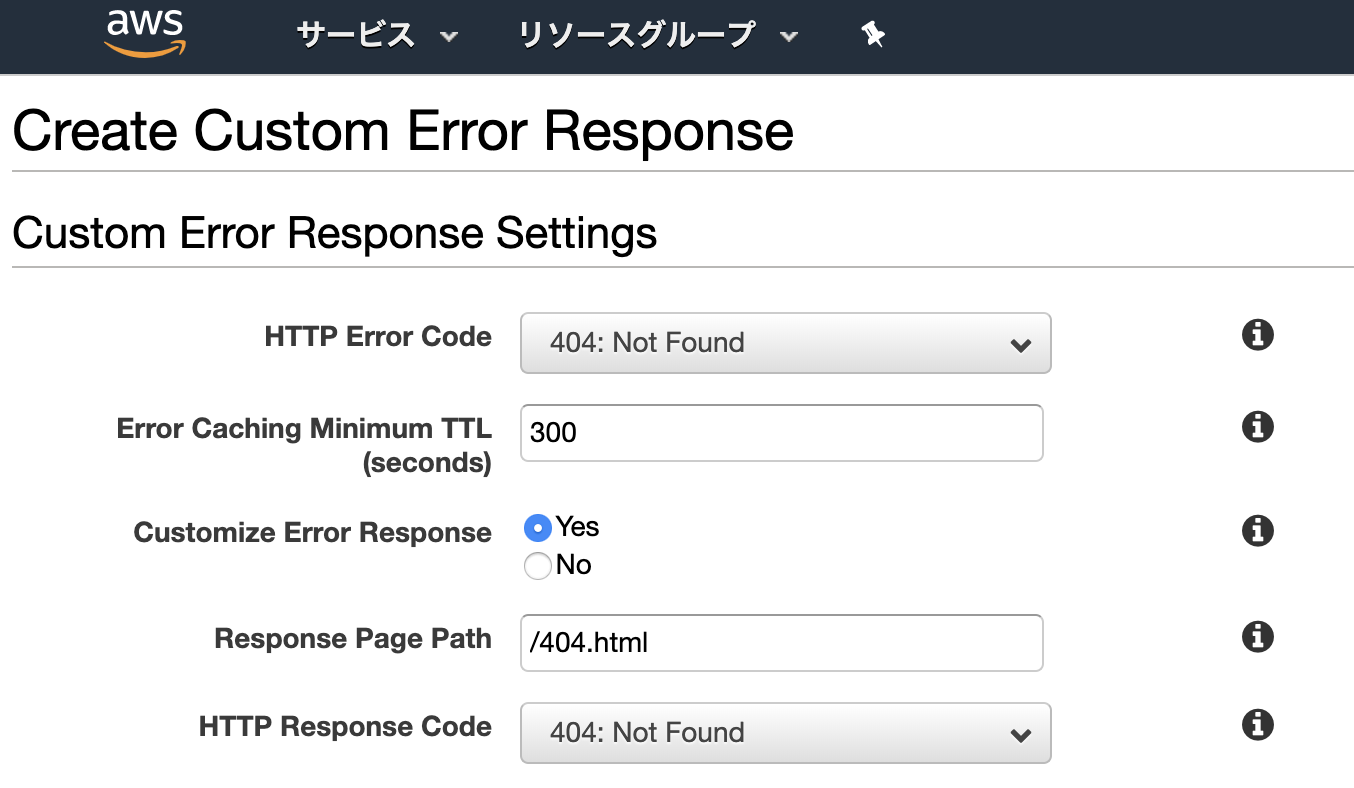
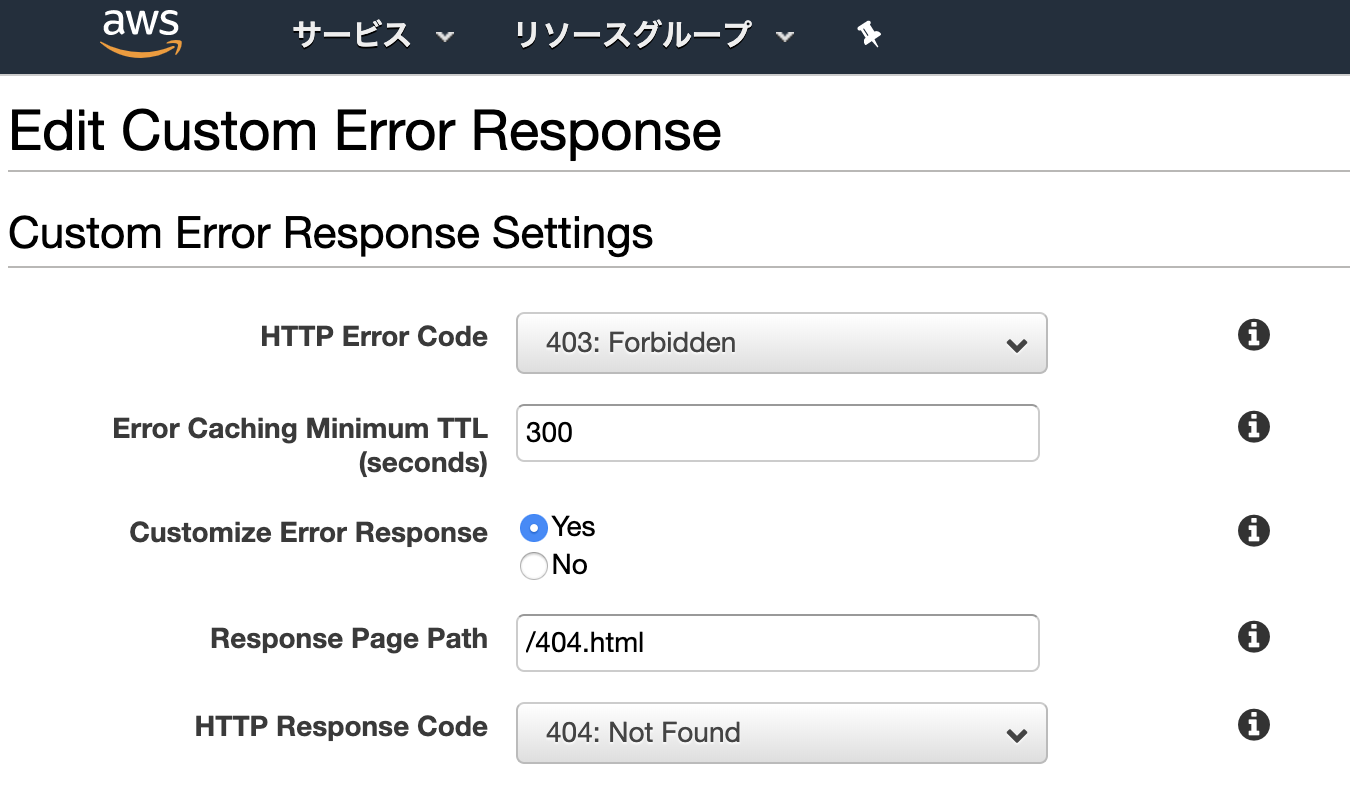
update blog about how to deploy my blog on AWS

diff --git a/aws/lambdaAtEdge-dicrectory-level-requests.js b/aws/lambdaAtEdge-dicrectory-level-requests.js
@@ -1,0 +1,20 @@
+'use strict'
+exports.handler = (event, context, callback) => {
+
+  // Extract the request from the CloudFront event that is sent to Lambda@Edge
+  const request = event.Records[0].cf.request;
+
+  // Extract the URI from the request
+  const oriUri = request.uri;
+
+  // Match any '/' that occurs at the end of a URI.
+  if (oriUri.endsWith('/')) {
+    // Replace it with a default index.html
+    request.uri += 'index.html';
+  } else if (!oriUri.includes('.')) {
+    request.uri += 'index.html';
+  }
+
+  // Return to CloudFront
+  callback(null, request);
+}

diff --git a/src/pages/2019/0508-gatsby-aws-s3/index.md b/src/pages/2019/0508-gatsby-aws-s3/index.md
@@ -167,7 +167,90 @@ yarn build && yarn deploy
 
 ![CloudFront-Management-Console-9](CloudFront-Management-Console-9.png)
 
-けっこう、時間がかかる。
+CloudFront から S3 の Bucket へは、IAM ロールを使ってアクセスします。しかし、この場合、サーバサイドでの 301/302 リダイレクトができないため、index.html 以外へのアクセスができないです。
+
+あとで、Lambda@Edge を使って、他のルーティングもできるように修正します。
+
+デプロイに、けっこう時間がかかる。
 
 AWS S3 を CloudFront 対応にする  
 <https://www.aws-book.com/getting-started/cloudfront/s3.html>
+
+残念ながら、今の設定だと、サーバ側の 301/302 のリダイレクトができなくなるので、ルートディレクトリとして設定した`index.html`以外の URL に直接アクセスすることができなくなってしまいます(この問題は、Gatsby の公式ページでも指摘されています)。
+
+Deploying to S3/Cloudfront  
+<https://www.gatsbyjs.org/docs/deploying-to-s3-cloudfront/>
+
+CloudFront redirecting to origin?  
+<https://acloud.guru/forums/aws-certified-developer-associate/discussion/-KcC5f1fw3l4-tclsXje/cloudfront_redirecting_to_orig>
+
+CloudFront ディストリビューションのオリジンとして S3 ウェブサイトのエンドポイントを使用しています。HTTP レスポンスコード 403 (Access Denied) が発生するのはなぜですか？  
+<https://aws.amazon.com/jp/premiumsupport/knowledge-center/s3-website-cloudfront-error-403/>
+
+Running GatsbyJS using Amazon S3 and CloudFront  
+<https://www.bayphillips.com/blog/gatsbyjs-using-amazon-s3-and-cloudfront/>
+
+## Lambda@Edge
+
+Gatsby の仕様として、`http://imamachi-n.com:8000/2019/0508-gatsby-aws-s3/`のようなサブディレクトリにアクセスした場合、サーバサイドでのリダイレクト（301/302）が発生し、`http://imamachi-n.com:8000/2019/0508-gatsby-aws-s3/index.html`にアクセスします。
+
+今回のように、S3 にオリジンを配置し、CloudFront にデータをキャッシュさせた場合、サーバサイドのリダイレクトができません。
+CloudFront の`Default Root Object`で`index.html`に設定することができますが、以下に示すとおりトップページにしか適応されません。
+
+- http://imamachi-n.com/ → index.html を返す
+- http://imamachi-n.com/subdir/ → index.html は返りません
+
+Deploying to S3/Cloudfront  
+<https://www.gatsbyjs.org/docs/deploying-to-s3-cloudfront/>
+
+![Lambda-edge-1](Lambda-edge-1.png)
+
+![Lambda-edge-2](Lambda-edge-2.png)
+
+![Lambda-edge-3](Lambda-edge-3.png)
+
+![Lambda-edge-4](Lambda-edge-4.png)
+
+![Lambda-edge-5](Lambda-edge-5.png)
+
+![Lambda-edge-6](Lambda-edge-6.png)
+
+![Lambda-edge-7](Lambda-edge-7.png)
+
+![Lambda-edge-8](Lambda-edge-8.png)
+
+![Lambda-edge-9](Lambda-edge-9.png)
+
+![Lambda-edge-10](Lambda-edge-10.png)
+
+![Lambda-edge-11](Lambda-edge-11.png)
+
+![Lambda-edge-12](Lambda-edge-12.png)
+
+![Lambda-edge-13](Lambda-edge-13.png)
+
+Lambda@Edge を設定するために、Lambda@Edge の IAM 実行ロールが必要です。  
+Lambda 関数を生成したときにできる実行ロールには、Lambda 用のサービスプリンシパルしか許可されていないので、`edgelambda.amazonaws.com`を追加します。
+
+IAM ロール設定の［信頼関係］タブを開いて、［信頼関係の編集］を開き、以下のように設定します。
+
+```json
+{
+  "Version": "2012-10-17",
+  "Statement": [
+    {
+      "Effect": "Allow",
+      "Principal": {
+        "Service": ["lambda.amazonaws.com", "edgelambda.amazonaws.com"]
+      },
+      "Action": "sts:AssumeRole"
+    }
+  ]
+}
+```
+
+デフォルトでは、CloudFront イベントが Lambda 関数をトリガーするたびに、データが CloudWatch Logs に書き込まれます。これらのログを使用する場合は、CloudWatch Logs にデータを書き込むためのアクセス権限が実行ロールに必要です。
+今回のケースだと、このログをいちいち出す必要がないので、この実行ロールを作りませんでした。
+
+Lambda@Edge 用の IAM アクセス権限とロールの設定  
+<https://docs.aws.amazon.com/ja_jp/AmazonCloudFront/latest/DeveloperGuide/lambda-edge-permissions.html>

diff --git a/src/pages/2019/0712-JJUG-study/index.md b/src/pages/2019/0712-JJUG-study/index.md
@@ -1,0 +1,54 @@
+---
+title: JJUG
+date: "2019-07-12"
+tags:
+  - Java
+  - Spring Framework
+---
+
+## Spring Initializr
+
+<https://start.spring.io/>
+
+## クラウド時代だから spring-retry フレームワーク
+
+短時間で復旧している可能性が高いなら、自動リトライ  
+そもそも通信過多なら、スロットリング
+
+aws-sdk-java  
+スロットリングとリトライの両方を内蔵している
+
+JDBC 接続のリトライ  
+REST-API の HTTP リクエストのリトライ
+
+RDS のフェイルオーバー  
+60-120 秒かかる.
+
+db.biz.internal は、CNAME：エイリアス名  
+ホスト名：フェイルオーバー後に エイリアスが変わる。
+
+AWS:既存の接続の再確立が必要となります。  
+JVM が生きている間は、DNS 検索結果を一生キャッシュするのがデフォルトなので、  
+エイリアスの変更を JVM が察知しない。  
+→3 秒にした。
+
+> **Amazon RDS のフェイルオーバープロセス**  
+> フェイルオーバーメカニズムでは、スタンバイ DB インスタンスをポイントするように DB インスタンスの DNS レコードが自動的に変更されます。したがって、DB インスタンスへの既存の接続の再確立が必要になります。Java DNS キャッシュメカニズムがどのように機能するかによって、JVM 環境の再設定が必要になる場合があります。
+> <https://docs.aws.amazon.com/ja_jp/AmazonRDS/latest/UserGuide/Concepts.MultiAZ.html#Concepts.MultiAZ.Failover>
+
+HikariCP  
+ConnectionTimeout などの設定は重要。数秒に設定したほうがいい。
+
+RetryTemplate  
+simple retry policy
+
+フェイルオーバー試験をすべき。
+
+## フレームワーク移行で学ぶ Spring Boot のつまづきポイント
+
+View へのデータの渡し方  
+Helper クラスを用意して、チーム内で同様の渡し方を実現する。
+
+github: dbflute-exmaple-on-springboot
+
+## これで怖くない！？コードリーディングで学ぶ Spring Security

diff --git a/index.md b/index.md
@@ -1,0 +1,11 @@
+---
+title: Kubernetesことはじめ
+date: "2019-05-26"
+tags:
+  - Kubernetes
+---
+
+## kubectl のインストール
+
+Install and Set Up kubectl  
+<https://kubernetes.io/docs/tasks/tools/install-kubectl/>
